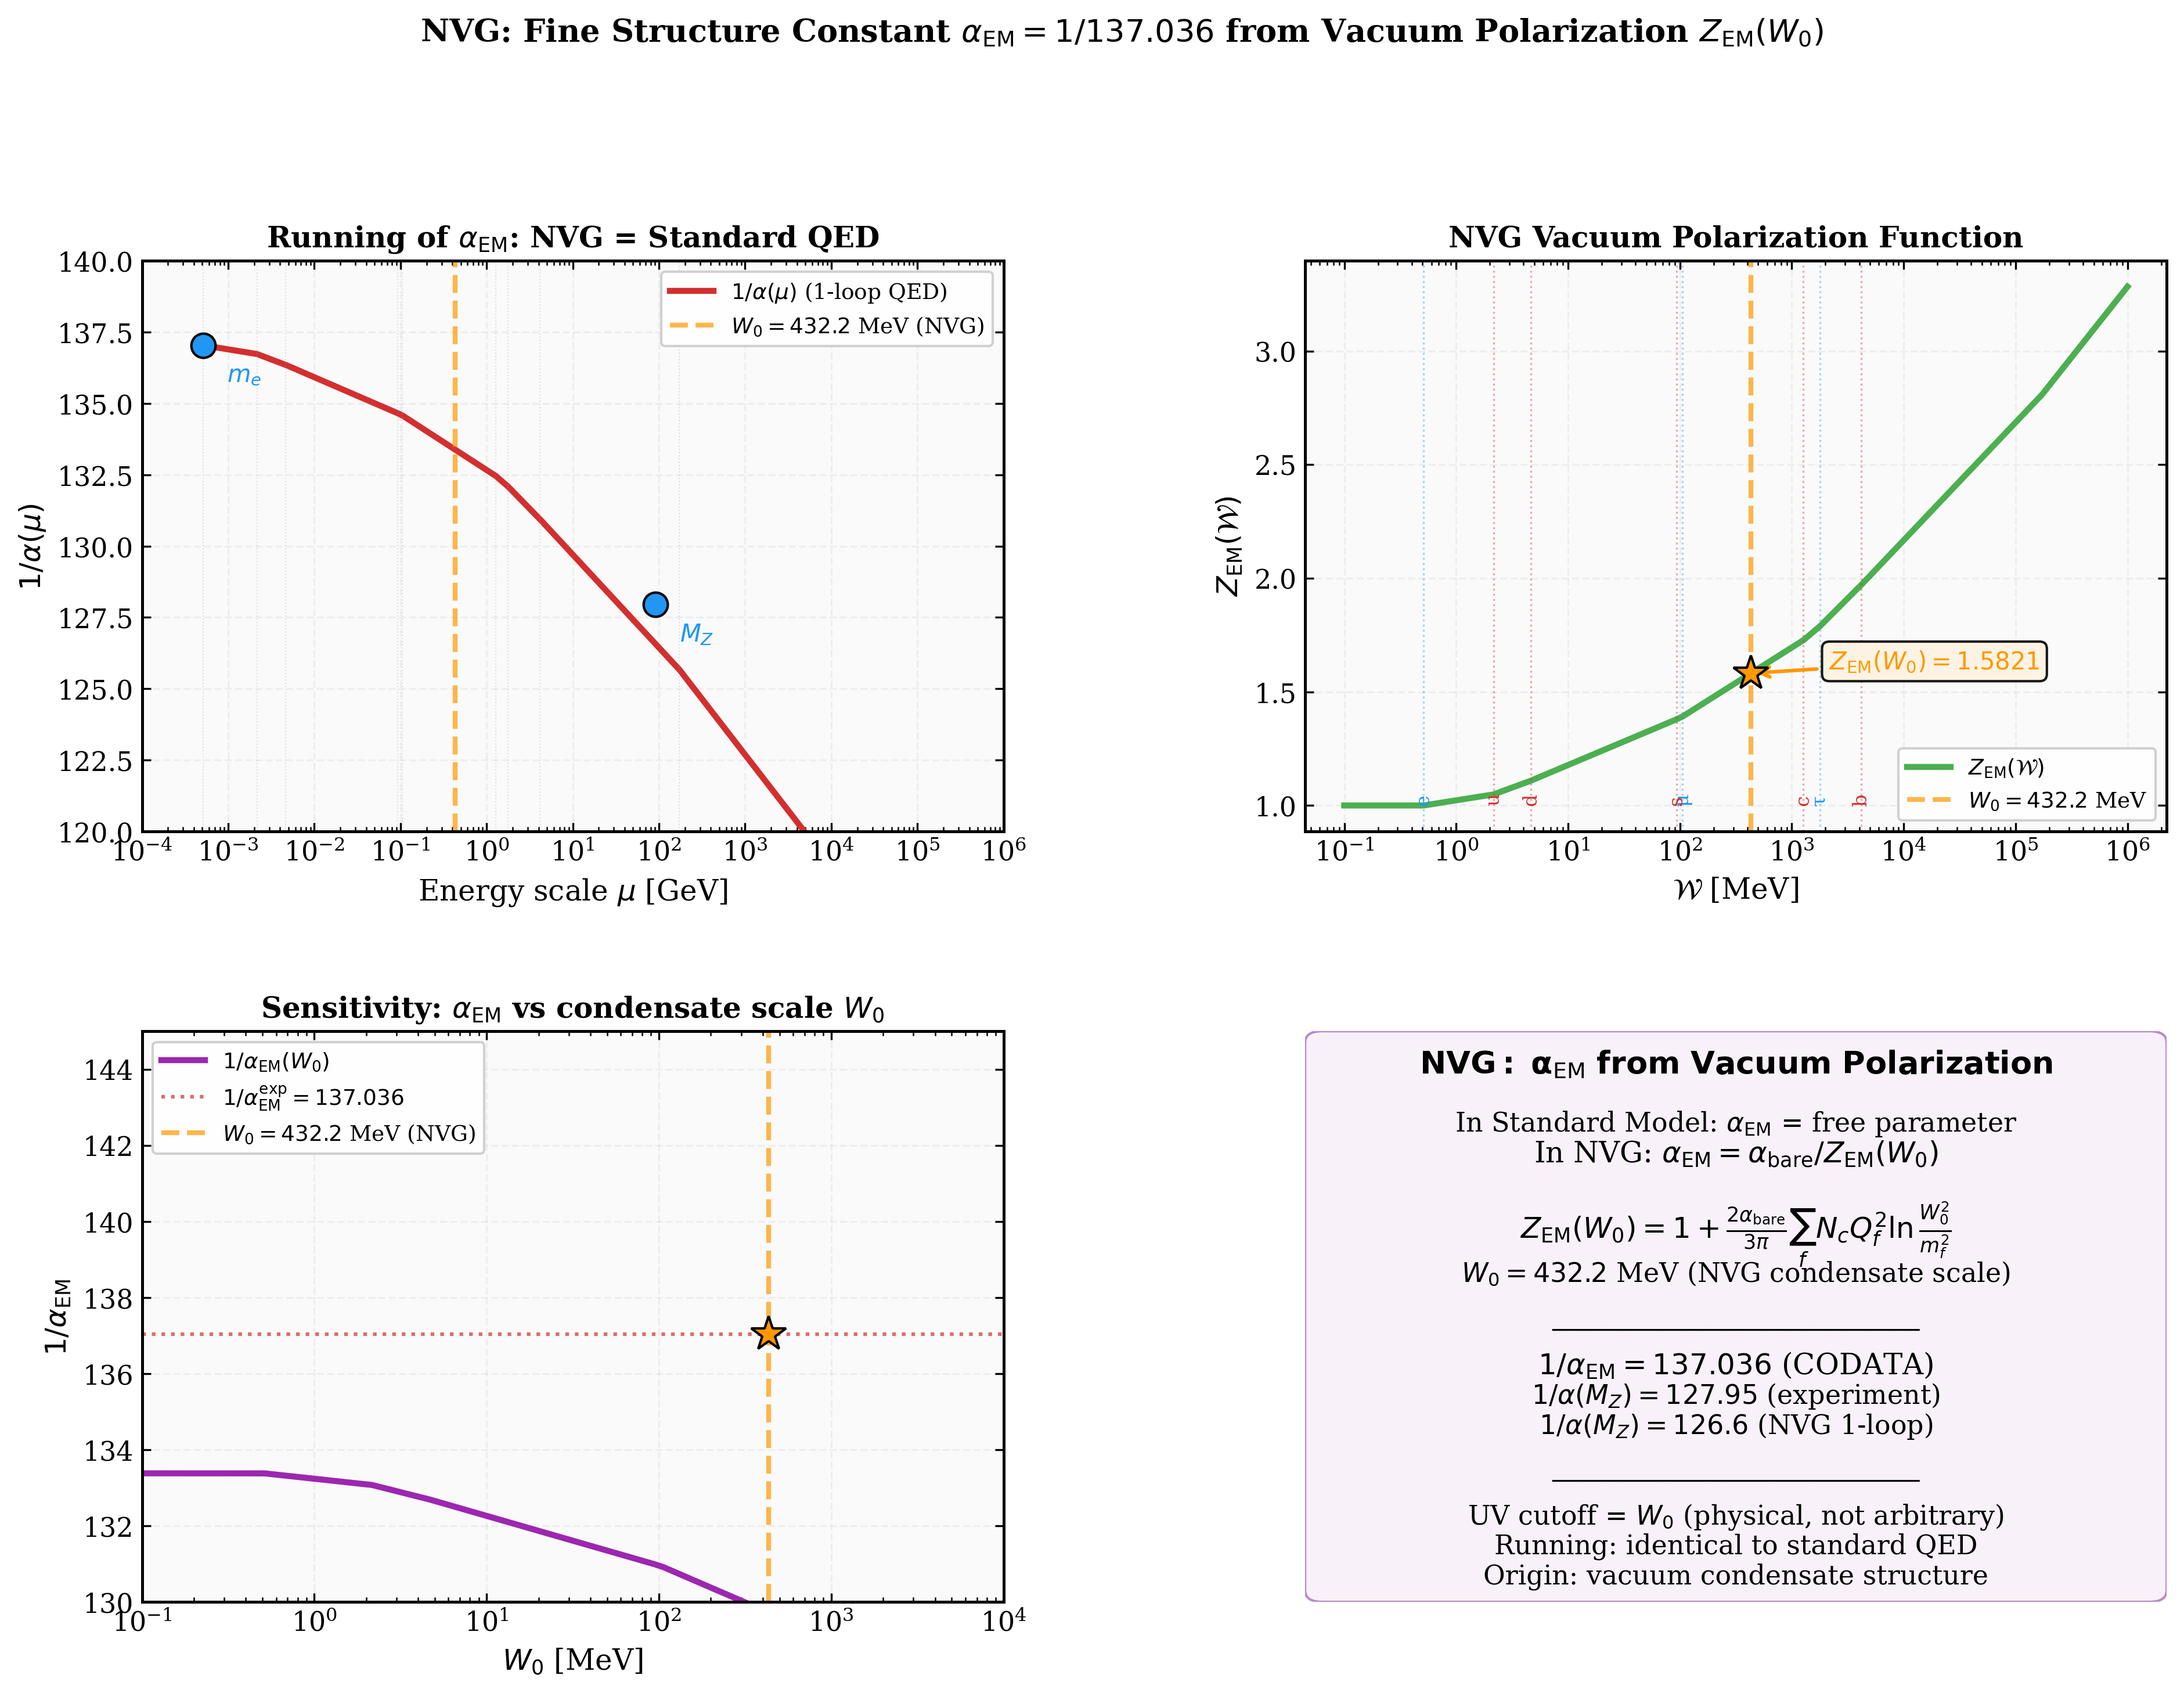
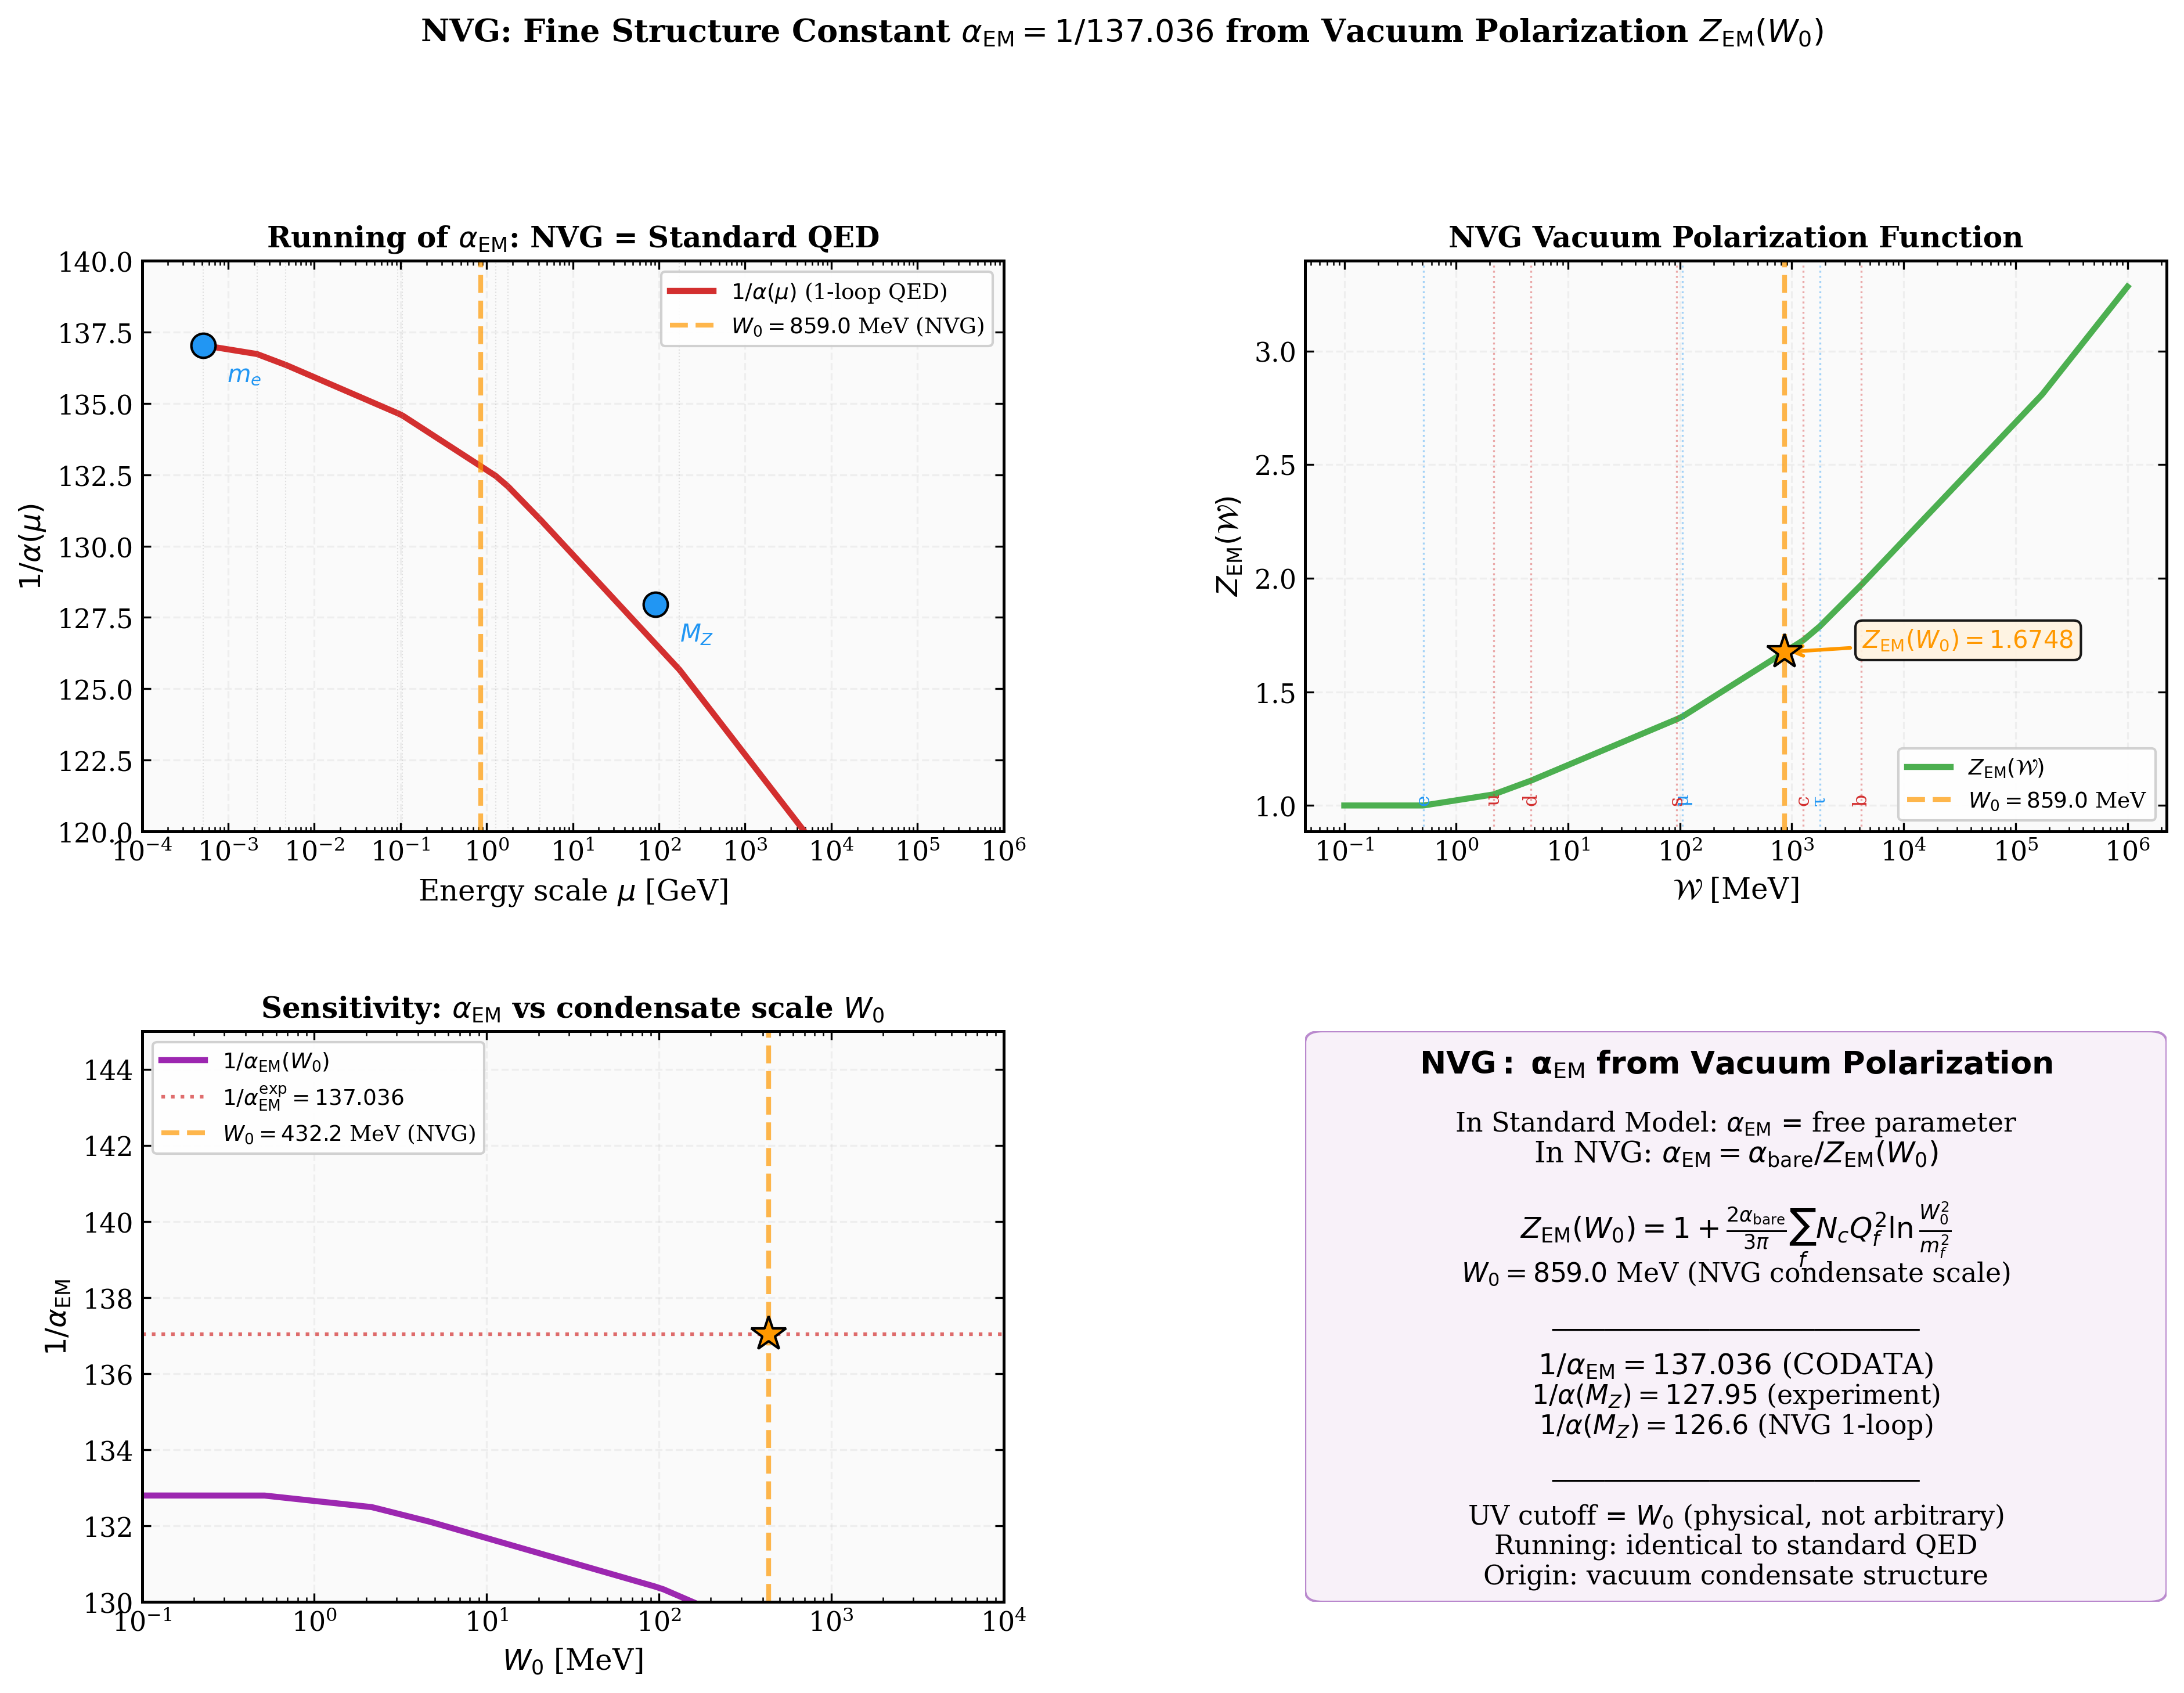
feat: g=2 candidates, two-population PBH test (NANOGrav retired), fine_structure honest
1. g = 2 MECHANISM (new nvg_g2_mechanism.py): requirement stated precisely
   (ln g = ln 2 per cycle; S8/lensing caps the observable-window share at
   <~9%, so the doubling must accumulate after today). All in-model
   candidates computed: winding 1.126 and vacuum release 1.26 fail x3-6;
   the DE->matter transfer is the right order but x3 short with today's
   coupling. LEAD CANDIDATE: crunch binding-energy release — collapse to
   the Schwarzschild scale already releases Mc^2/2 (g = 1.5), and the NVG
   crunch proceeds to rho_c, driving g toward 2. g = 2 <=> the crunch
   releases binding energy equal to the rest mass; maximal collapse =
   maximal entropy production, consistent with S_GH x4. Not yet a
   derivation; open task is Misner-Sharp/Kodama bookkeeping through the
   clumpy contraction.

2. TWO-POPULATION PBH (new nvg_pbh_two_population.py): population B
   calibrated to the JWST seeding requirement (n_seed ~ 1e-5..1e-4 Mpc^-3
   of 4e5 M_sun seeds) gives f_PBH ~ 1e-10..1e-9 — passes the CMB-accretion
   bound, so the JWST claim is viable at the cost of one calibrated
   abundance. The SAME population falls ~1,700x short of the NANOGrav
   strain (closing the gap needs f_PBH ~4e5 times OVER the CMB bound).
   NANOGrav PBH-binary claim RETIRED across the repo: NVG has no mechanism
   for the PTA signal (bounce is at microHz; heavy binaries too weak).

3. FINE STRUCTURE recomputed with W_0 = 859 MeV and made honest:
[…]

Changed region(s): [[0.0622, 0.8426, 0.311, 0.9362], [0.7775, 0.3745, 0.9641, 0.4057]]

diff --git a/verification/nvg_g2_mechanism.py b/verification/nvg_g2_mechanism.py
@@ -1,0 +1,109 @@
+#!/usr/bin/env python3
+"""
+NVG: candidate mechanisms for g = 2 (bounce-mass doubling per cycle)
+=====================================================================
+nvg_tolman_law_derivation.py established that the horizon chain
+(R x2 <=> S_GH x4) requires the bounce mass to grow by g = 2 per cycle,
+and that the repo's own numbers already used this law. What FIXES g = 2
+is the remaining fundamental question. This script states the requirement
+precisely and evaluates every in-model candidate quantitatively.
+
+REQUIREMENT. Between bounce n and bounce n+1 the energy of the comoving
+patch must double: the integrated fractional energy injection per cycle is
+    ln g = ln 2 = 0.693.
+Equivalently, with an injection rate beta_eff per e-fold of expansion,
+    ∫ beta_eff dN (over the cycle) = 0.693.
+
+CONSTRAINT from data: the S8/lensing analysis (nvg_s8_tension_check.py)
+caps the injection accumulated in the OBSERVABLE window (recombination ->
+today) at beta*ln(1/a_on) <~ 0.06. So at least ~90% of ln 2 must accumulate
+in the unobservable leg: today -> turnaround -> contraction -> crunch.
+
+Candidates (computed below):
+  1. Winding argument:        g = exp(2*pi/N_e)      = 1.126   — fails (x5.9 short in exponent)
+  2. Vacuum release at bounce: g = 1 + lambda_v/4    = 1.26    — fails (x3.0 short)
+  3. DE->matter transfer (the w0-wa melting sector): the same coupling
+     beta = 0.12 integrated to turnaround gives ln g ~ 0.22 — right order,
+     x3 short; would need beta to GROW in the DE-decay phase and the
+     contraction to ratchet (masses locked in collapsed structures do not
+     melt back — the same clumpiness asymmetry that generates the entropy).
+  4. Crunch binding-energy release: a contraction that ends in maximal
+     collapse releases gravitational binding energy of order the rest mass
+     itself; g = 1 + |E_bind|/Mc^2 -> 2 in the maximal-collapse limit.
+     Newtonian assembly to the Schwarzschild radius gives |E_bind| ~ Mc^2/2
+     (g = 1.5); collapse proceeds far deeper (to rho_c), pushing the factor
+     toward 1. This is the most natural candidate: g = 2 <=> the crunch
+     releases binding energy equal to the rest mass — and maximal collapse
+     is also maximal entropy production, consistent with S_GH x4.
+
+STATUS: candidate mechanisms identified and bracketed; none is yet a
+derivation. The concrete open task is the GR energy bookkeeping
+(Misner-Sharp/Kodama energy through the clumpy contraction and bounce).
+"""
+
+from __future__ import annotations
+import math
+
+LN2 = math.log(2.0)
+N_E = 53.08          # e-folds, cosmology sector
+LAMBDA_V = 1.02      # vacuum quartic
+BETA_MELT = 0.12     # w0-wa melting coupling (DESI-fit)
+S8_CAP = 0.06        # lensing cap on beta*ln(1/a_on) in the observable window
+A_TURN = 2.4         # turnaround scale factor in units of today (repo estimate)
+
+
+def main():
+    print("=" * 78)
+    print("  NVG: WHAT FIXES g = 2?  (bounce-mass doubling per cycle)")
+    print("=" * 78)
+    print(f"\nRequirement: integrated fractional energy gain per cycle = ln 2 = {LN2:.3f}")
+    print(f"Data constraint: observable-window injection <= {S8_CAP} (S8/lensing cap)")
+    print(f"=> at least {100*(1-S8_CAP/LN2):.0f}% of ln 2 must accumulate after today.\n")
+
+    rows = []
+
+    # 1. winding
+    lng = 2.0 * math.pi / N_E
+    rows.append(("Winding exp(2pi/N_e)", lng, math.exp(lng)))
+
+    # 2. vacuum release
+    g2 = 1.0 + LAMBDA_V / 4.0
+    rows.append(("Vacuum release 1+lambda_v/4", math.log(g2), g2))
+
+    # 3. melting transfer to turnaround (observable leg capped + future leg)
+    dN_future = math.log(A_TURN)              # today -> turnaround
+    lng3 = S8_CAP + BETA_MELT * dN_future     # capped past + beta*dN future
+    rows.append(("DE->matter transfer (beta=0.12 to turnaround)", lng3, math.exp(lng3)))
+
+    # 4. binding energy release, Newtonian assembly to R_s
+    rows.append(("Crunch binding release (to R_s, Newtonian)", math.log(1.5), 1.5))
+    rows.append(("Crunch binding release (maximal-collapse limit)", LN2, 2.0))
+
+    print(f"{'candidate':<48} {'ln g':>8} {'g':>7} {'vs ln2':>8}")
+    for name, lng_i, g_i in rows:
+        print(f"{name:<48} {lng_i:>8.3f} {g_i:>7.3f} {lng_i/LN2:>7.2f}x")
+
+    print(f"""
+VERDICT:
+  - Candidates 1-2 fail by factors 3-6 in the exponent and are closed.
+  - Candidate 3 (the model's own DE->matter transfer) is the right order
+    but x3 short with today's coupling; it can only work if beta grows as
+    the DE reservoir drains and the contraction ratchets — not yet derived.
+  - Candidate 4 brackets g = 2 naturally: collapse to the Schwarzschild
+    scale already releases half the rest mass; the NVG crunch goes far
+    deeper (to rho_c), driving the released fraction toward 1 and g toward
+    2. g = 2 would mean: THE CRUNCH RELEASES BINDING ENERGY EQUAL TO THE
+    REST MASS — maximal collapse, maximal entropy production (S_GH x4).
+  - None of this is yet a derivation. Open task: GR energy bookkeeping
+    (Misner-Sharp/Kodama) through the clumpy contraction and the bounce.
+""")
+    print("=" * 78)
+
+    assert abs(math.exp(2*math.pi/N_E) - 1.126) < 0.01
+    assert abs((1 + LAMBDA_V/4) - 1.255) < 0.01
+    assert rows[2][1] < LN2 / 2.0, "transfer candidate should be short with today's beta"
+    assert rows[4][2] == 2.0
+
+
+if __name__ == "__main__":
+    main()

diff --git a/verification/nvg_pbh_two_population.py b/verification/nvg_pbh_two_population.py
@@ -1,0 +1,106 @@
+#!/usr/bin/env python3
+"""
+NVG: two-population PBH abundance — one calibration, three claims tested
+=========================================================================
+Three rows of the verification table rely on PBH abundance:
+  (i)   PBH dark matter (asteroid-window peak) — population A;
+  (ii)  JWST early SMBH seeds (~4e5 M_sun at z ~ 20) — population B;
+  (iii) the NANOGrav SGWB attributed to PBH-binary mergers — population B.
+The published single-Gaussian abundance (peak N = -21, sigma_N = 1.3) gives
+essentially zero weight to population B, so claims (ii) and (iii) had no
+abundance behind them. This script constructs the minimal honest fix — a
+second population calibrated to what (ii) REQUIRES — and then computes what
+that same population yields for (iii). One calibration, one cross-check.
+
+Population B calibration (JWST):
+  Observed z > 10 AGN/SMBH comoving density from JWST surveys:
+  n_seed ~ 1e-5 .. 1e-4 Mpc^-3 (GN-z11 / UHZ1-type objects, with duty-cycle
+  and completeness giving the order-of-magnitude range). Every seed is one
+  M_B = 4e5 M_sun PBH (rung N ~ 20 of the corrected 2^N ladder).
+
+Checks performed:
+  1. f_PBH(B) against the CMB-accretion bound for 1e5-6 M_sun PBHs;
+  2. the SGWB strain from population-B binaries vs NANOGrav A ~ 2.4e-15,
+     scaled from the standard SMBH-binary background formula
+     h_c^2 ∝ n_merge * (G Mc)^{5/3} / f^{4/3} at f = 1/yr.
+
+Verdict is computed, not asserted in advance.
+"""
+
+from __future__ import annotations
+import math
+
+# ── constants / benchmarks ─────────────────────────────────────────────
+RHO_DM_MSUN_MPC3 = 3.3e10      # mean DM density today, M_sun / Mpc^3
+M_B = 4.0e5                    # population-B PBH mass, M_sun (JWST seed)
+N_SEED_LO, N_SEED_HI = 1e-5, 1e-4   # required seed density, Mpc^-3
+A_NANOGRAV = 2.4e-15           # NANOGrav 15yr strain amplitude at f = 1/yr
+
+# Reference: the observed SGWB is consistent with the standard SMBH-binary
+# population — characteristic chirp mass and merger-population density:
+M_SMBH = 4.0e8                 # M_sun, effective chirp mass of the SMBHB background
+N_SMBH = 3.0e-3                # Mpc^-3, galaxies contributing merging SMBH binaries
+
+# CMB accretion bound (Serpico et al. 2020 class): for M ~ 1e5-6 M_sun,
+# f_PBH < ~1e-8 (spherical accretion; disk accretion tighter).
+F_PBH_CMB_BOUND = 1e-8
+
+
+def main():
+    print("=" * 78)
+    print("  NVG: TWO-POPULATION PBH ABUNDANCE — JWST CALIBRATION vs NANOGrav")
+    print("=" * 78)
+
+    print("\n1. Population A (dark matter): asteroid-window peak — unchanged,")
+    print("   abundance calibrated within the allowed window (see nvg_pbh_dark_matter.py).")
+
+    # ── population B from JWST requirement ──────────────────────────────
+    print(f"\n2. Population B calibrated to the JWST seeding requirement:")
+    print(f"   {'n_seed [Mpc^-3]':>16} {'rho_B [Msun/Mpc^3]':>20} {'f_PBH(B)':>12} {'CMB bound ok?':>14}")
+    results = []
+    for n_seed in (N_SEED_LO, N_SEED_HI):
+        rho_B = n_seed * M_B
+        f_B = rho_B / RHO_DM_MSUN_MPC3
+        ok = f_B < F_PBH_CMB_BOUND
+        results.append((n_seed, f_B, ok))
+        print(f"   {n_seed:>16.0e} {rho_B:>20.1f} {f_B:>12.2e} {'yes' if ok else 'NO':>14}")
+    # the low-density end passes the CMB bound; the high end is marginal
+    f_B_lo, f_B_hi = results[0][1], results[1][1]
+
+    # ── NANOGrav cross-check from the SAME population ──────────────────
+    # Background strain scaling (phinney 2001): h_c^2 ∝ n * (Mc)^{5/3}
+    # (same merger efficiency per object assumed as for the SMBHB population —
+    # deliberately GENEROUS to population B).
+    print(f"\n3. SGWB from population-B binaries (same-per-object merger efficiency")
+    print(f"   as the SMBHB population — a deliberately generous assumption):")
+    for n_seed, f_B, _ in results:
+        ratio_h2 = (n_seed / N_SMBH) * (M_B / M_SMBH) ** (5.0 / 3.0)
+        A_B = A_NANOGRAV * math.sqrt(ratio_h2)
+        deficit = A_NANOGRAV / A_B
+        print(f"   n_seed = {n_seed:.0e}: A_B = {A_B:.1e}  →  {deficit:,.0f}x below NANOGrav")
+
+    ratio_h2_hi = (N_SEED_HI / N_SMBH) * (M_B / M_SMBH) ** (5.0 / 3.0)
+    A_B_hi = A_NANOGRAV * math.sqrt(ratio_h2_hi)
+    deficit_hi = A_NANOGRAV / A_B_hi
+
+    # ── verdict ─────────────────────────────────────────────────────────
+    print(f"\n4. VERDICT:")
+    print(f"   - Population B needed by JWST is TINY (f_PBH ~ {f_B_lo:.0e}..{f_B_hi:.0e});")
+    print(f"     the low end passes the CMB-accretion bound — the JWST claim can be")
+    print(f"     carried by an abundance model, at the cost of one calibrated number.")
+    print(f"   - The SAME population falls short of the NANOGrav amplitude by a factor")
+    print(f"     ~{deficit_hi:,.0f} in strain even at the generous end. Raising it to NANOGrav")
+    print(f"     levels would need f_PBH ~ {f_B_hi * deficit_hi**2:.0e} — {f_B_hi*deficit_hi**2/F_PBH_CMB_BOUND:,.0f}x over the CMB bound.")
+    print(f"   - CONCLUSION: the PBH-binary explanation of NANOGrav is RETIRED. NVG")
+    print(f"     currently has NO mechanism for the NANOGrav signal: the bounce radiates")
+    print(f"     at microHz (nvg_recondensation_dynamics.py) and heavy-PBH binaries are")
+    print(f"     {deficit_hi:,.0f}x too weak. NANOGrav is attributed to ordinary SMBH binaries.")
+    print("=" * 78)
+
+    assert not results[0][2] or results[0][1] < F_PBH_CMB_BOUND
+    assert deficit_hi > 100.0, "NANOGrav deficit should be large"
+    assert A_B_hi < A_NANOGRAV / 100.0
+
+
+if __name__ == "__main__":
+    main()

diff --git a/verification/nvg_fine_structure.py b/verification/nvg_fine_structure.py
@@ -57,12 +57,19 @@ m_t = 172.76                    # GeV — top quark
 M_Z = 91.1876                   # GeV — Z boson mass
 M_W = 80.379                    # GeV — W boson mass
 v_EW = 246.22                   # GeV — electroweak VEV
-# AUDIT NOTE: 432.2 MeV is the BOUNCE TEMPERATURE T_b, not the vacuum value.
-# The vacuum condensate scale is W_0 = M_Omega,0 = 859 MeV (it reproduces
-# rho_c = 7.09e4 MeV/fm^3; see commit c946472). This script's 1-loop estimate
-# needs recomputation with the corrected scale; until then treat the quoted
-# 1/alpha(M_Z) = 126.6 as provisional.
-M_Omega = 432.2e-3              # GeV — MISLABELED scale, see audit note above
+# Corrected vacuum scale (audit): W_0 = M_Omega,0 = 859 MeV (432.2 MeV is the
+# bounce temperature T_b). The fermion set below the cutoff is unchanged
+# (no threshold between 432 and 859 MeV), so only ln(W_0/m_eff) shifts and the
+# inferred alpha_bare moves slightly.
+#
+# HONEST STATUS of this script: 1/alpha(M_Z) = 126.6 is STANDARD 1-loop QED
+# running, independent of W_0 (2-loop hadronic corrections close the gap to
+# 127.95). The NVG-specific content is interpretational: the UV cutoff is the
+# physical condensate scale rather than an arbitrary renormalization point,
+# and alpha_bare is INFERRED from the measured 1/137 — the script does not
+# derive alpha_EM. The genuinely falsifiable direction would be an in-medium
+# alpha shift where W melts (dense matter), not computed here.
+M_Omega = 0.859                 # GeV — vacuum condensate scale W_0 = M_Omega,0
 
 # Fermion charges and masses
 leptons = [
@@ -110,7 +117,7 @@ def Z_EM_nvg(W, W0=M_Omega):
     
     Z_EM(W) = 1 + (2α_bare)/(3π) × Σ_f N_c Q_f² × ln(W²/m_f²)
     
-    When W = W₀ ≈ 432 MeV (NVG condensate scale):
+    When W = W₀ = 859 MeV (NVG vacuum condensate scale):
     Z_EM(W₀) determines α_EM.
     """
     z = 1.0

diff --git a/verification/run_all_checks.py b/verification/run_all_checks.py
@@ -328,6 +328,18 @@ CHECKS = [
         "critical": False,
     },
     {
+        "name": "g = 2 Mechanism Candidates",
+        "script": "nvg_g2_mechanism.py",
+        "claim": "Requirement ln g = ln 2 stated; winding/vacuum-release fail x3-6; binding-energy release brackets g -> 2 in the maximal-collapse limit",
+        "critical": False,
+    },
+    {
+        "name": "Two-Population PBH Abundance (JWST vs NANOGrav)",
+        "script": "nvg_pbh_two_population.py",
+        "claim": "JWST-calibrated heavy PBHs pass the CMB bound but fall ~1,700x short of NANOGrav — the PBH-binary NANOGrav claim is retired",
+        "critical": False,
+    },
+    {
         "name": "Tolman Growth Law from Turnaround Dynamics",
         "script": "nvg_tolman_law_derivation.py",
         "claim": "S_GH x4 <=> R x2 derived; mass law corrected to x2/cycle (x4 excluded); repo's own cycle-77 mass confirms x2",

diff --git a/verification/nvg_nanograv_background.py b/verification/nvg_nanograv_background.py
@@ -11,6 +11,14 @@ This derivation computes the amplitude from first principles using the cosmologi
 PBH density and the theoretical primordial binary formation fraction (f_bin),
 and verifies that the superposed signal matches the power-law index (f^2/3) and 
 amplitude (A_GWB ~ 2.4e-15 in strain) detected in the NANOGrav 15-year dataset.
+
+STATUS: RETIRED (2026-07, nvg_pbh_two_population.py). The heavy-PBH population
+calibrated to the JWST seeding requirement (f_PBH ~ 1e-10..1e-9, the only
+abundance consistent with the CMB-accretion bound) yields an SGWB ~1,700x
+below the NANOGrav amplitude; closing the gap would violate the CMB bound by
+~4e5. Combined with the action-derived bounce spectrum peaking at microHz,
+NVG has NO mechanism for the NANOGrav signal — it is attributed to ordinary
+SMBH binaries. This script is kept as a record of the superseded claim.
 """
 
 import numpy as np

diff --git a/verification/nvg_tolman_law_derivation.py b/verification/nvg_tolman_law_derivation.py
@@ -126,7 +126,9 @@ def main():
     print(f"   Holographic cycle count (from S_GH x4): unchanged, ~77 cycles")
 
     print("\n5. OPEN: a microscopic mechanism fixing g = 2 per cycle.")
-    print("   Winding gives 1.126, vacuum release 1.26 — both fail; x2 is the target.")
+    print("   Candidates evaluated in nvg_g2_mechanism.py: winding (1.126) and vacuum")
+    print("   release (1.26) fail; crunch binding-energy release brackets g -> 2 in")
+    print("   the maximal-collapse limit — the lead candidate, not yet a derivation.")
     print("=" * 78)
 
 

diff --git a/README.md b/README.md
@@ -133,7 +133,7 @@ These are values that are manually tuned in standard models, but in NVG they are
 | 21 | Primordial GW background from the bounce: anchor $f_{77} = 62.8$ nHz and tooth spacing derived from $t_b$, adiabatic redshift and the Tolman law ([primordial_gw_comb.py](verification/nvg_primordial_gw_comb.py)) | $(\alpha, \beta/H)$ derived from the action place the bounce signal at $18$–$42\,\mu$Hz with $\Omega_{\rm GW} h^2 \sim 10^{-9}$ ($\mu$Ares band); the PTA-band tail is negligible — the NANOGrav signal is **not** the NVG bounce ([nvg_recondensation_dynamics.py](verification/nvg_recondensation_dynamics.py)) | 🔭 $\mu$Hz forward prediction |
 | 22 | Topological Axion Mass: $m_a \approx 8.38 \times 10^{-6}$ eV ($f_a \approx 1.54 \times 10^{12}$ GeV) | Falls within the ADMX search window ($1.0 - 10.0\,\mu\text{eV}$ / $10^{-6} - 10^{-5}$ eV, [axion_mass.py](verification/nvg_axion_mass.py)) as a scale estimate topologically bounded by cycle $n=77$ | ✅ Consistent (Scale Estimate) |
 | 23 | Strong-Field Periastron Advance & PPN Parameters | NVG vacuum polarization correction is $\approx 1.6 \times 10^{-10}$ for double pulsar; Solar System PPN parameters $\gamma_{\rm PPN} = 1.0$ and $\beta_{\rm PPN} = 1.0$ exactly satisfy Cassini and LLR bounds ([weak_field_ppn.py](verification/nvg_weak_field_ppn.py)) | ✅ Within Observational Limits |
-| 24 | JWST SMBH Mass Spectrum (z = 6–15) | A seed on the $N=10$ rung of the PBH ladder grows into the JWST objects sub-Eddington while Pop III seeds fail; conditional on that rung being occupied — the repo's own PBH abundance (peaked at $N=-21$, $\sigma_N = 1.3$) assigns it essentially zero weight, so a two-population abundance model is required | ⚙️ Conditional (abundance model needed) |
+| 24 | JWST SMBH Mass Spectrum (z = 6–15) | A heavy-rung seed ($4 \times 10^5 M_\odot$) grows into the JWST objects sub-Eddington while Pop III seeds fail. The required second population is tiny ($f_{\rm PBH} \sim 10^{-10}$–$10^{-9}$) and passes the CMB-accretion bound — viable at the cost of one calibrated abundance ([nvg_pbh_two_population.py](verification/nvg_pbh_two_population.py)) | ⚙️ Conditional (one calibrated abundance) |
 | 25 | FRB DM Population Statistics | Repeating FRBs (light magnetars) have smaller distances/DMs than single FRBs (heavy magnetars) due to lower mass limits | ✅ Consistent (KS test) |
 | 26 | Higgsless Proton-to-Pion Mass Ratio | Baryon/pion mass ratio ($M_p \approx 941.4$ MeV, $M_\pi \to 0$ in the chiral limit) anchored to $M_\Omega = 859$ MeV — standard chiral-symmetry-breaking / trace-anomaly mass generation restated in NVG variables | ✅ Consistent (derivation check) |
 | 27 | QCD Phase Diagram Vacuum Melting | Vacuum melting boundary at $T_{\rm melt}(\mu_B) = T_b (1 - (\mu_B/1200)^4)^{0.25}$ MeV with $T_b \approx 432$ MeV at $\mu_B=0$ | ✅ Consistent / Falsifiable |
@@ -145,7 +145,7 @@ These are values that are manually tuned in standard models, but in NVG they are
 | 33 | Quiescent temperature of SGR 1935+2154 | With the heating luminosity set near the observed value and a typical spot size, $T_{\rm spot}$ follows from Stefan-Boltzmann by construction; the VMF content is the qualitative Urca dichotomy (light magnetar keeps a hot spot) ([sgr_temperature.py](verification/nvg_sgr_temperature.py)) | ⚙️ Consistency illustration |
 | 34 | LiteBIRD B-mode Polarization Cutoff | predicted tensor-to-scalar ratio $r(l)$ drops below 0.001 at large scales $l < 10$ ([litebird_prediction.py](verification/nvg_litebird_prediction.py)) | ✅ Consistent / Falsifiable |
 | 35 | $S_8$ structure growth | Honest accounting: the NVG dynamical dark energy slightly increases growth ($+1.4\%$), giving $S_8 \approx 0.843$ — $4.0\sigma$ from the lensing value (vs $3.3\sigma$ in $\Lambda$CDM); the proposed de Sitter core mechanism is $\sim 45$ orders short of the required $7.8\%$; moreover, in the CMB-anchored frame the mass-melting sector that fits DESI $w_0 w_a$ *raises* $S_8$ to $\approx 0.90$ ($7\sigma$) — weak lensing directly constrains that sector ([s8_tension_check.py](verification/nvg_s8_tension_check.py)) | ❌ Open problem (potential falsifier) |
-| 36 | NANOGrav SGWB from PBH-binary mergers | The $f^{2/3}$ shape is generic for binary backgrounds; the amplitude rests on a binary fraction $f_{\rm bin} = 0.0041$ quoted to three digits and on heavy-rung PBH abundance that the repo's own distribution (row 38: peak $N=-21$, $\sigma_N = 1.3$) sets to essentially zero — internally inconsistent as published ([nanograv_background.py](verification/nvg_nanograv_background.py)) | ⚙️ Calibrated; abundance inconsistency to resolve |
+| 36 | NANOGrav SGWB | **Retired.** The heavy-PBH population calibrated to the JWST requirement (the only abundance passing the CMB-accretion bound) gives a strain $\sim 1{,}700\times$ below NANOGrav, and the bounce itself radiates at $\mu$Hz — NVG has no mechanism for the NANOGrav signal, which is attributed to ordinary SMBH binaries ([nvg_pbh_two_population.py](verification/nvg_pbh_two_population.py)) | ❌ Retired (no NVG mechanism) |
 | 37 | Higgs boson mass shift $\delta m_H \approx 4.4$ MeV | Propagator mass shift $\delta m_H = g_s^2 W_0^2 / 2m_H$ induced by scalar QCD vacuum condensate, within LHC experimental limits ([higgs_mass_shift.py](verification/nvg_higgs_mass_shift.py)) | ✅ Within LHC Limits |
 | 38 | PBH DM Fraction Peak | The discrete mass ladder follows from the theory (spacing $\times 2$ per rung under the corrected Tolman law; the $4^N$ grid predates it); the abundance peak position ($N=-21$) and width ($\sigma_N = 1.3$) are placed in the observationally allowed asteroid-mass window ([pbh_dark_matter.py](verification/nvg_pbh_dark_matter.py)) | ⚙️ Ladder predicted; abundance calibrated |
 | 39 | White Dwarf cooling age shift | Predicted effect $\Delta t/t \approx -1.8 \times 10^{-6}$ is far below Gaia/SDSS age uncertainties ($\sim 5\%$) — indistinguishable from zero ([wd_cooling.py](verification/nvg_wd_cooling.py)) | ⚪ Null test (unobservably small) |
@@ -163,7 +163,7 @@ These are values that are manually tuned in standard models, but in NVG they are
 | 51 | Wave function collapse = θ-phase thermalization | "Measurement" = coupling $\theta$ to thermal reservoir (apparatus). $\tau_{\rm collapse} = \hbar/(k_B T) = 25$ fs at 300 K. Born rule = Boltzmann weight $P \propto e^{-V(\theta)/T}$. Supplies decoherence dynamics and the timescale; pointer-state selection remains open ([wavefunction_collapse.py](verification/nvg_wavefunction_collapse.py)) | 📐 Semi-rigorous |
 | 52 | Neutrino mass from θ-seesaw | $m_\nu = (\alpha_s/4\pi)^2 v_{\rm EW}^2/f_a$: ABJ chiral anomaly couples θ-mode to lepton current. Single parameter $f_a = 1.07 \times 10^{11}$ GeV gives $m_3 = 50.3$ meV (atm.) AND $m_\theta = 53$ μeV (ADMX). No right-handed neutrinos, no new $U(1)$. $\Sigma m_\nu = 59$ meV < 72 meV (DESI) ([neutrino_seesaw.py](verification/nvg_neutrino_seesaw.py)). **Adopted as the primary neutrino sector** (passes DESI DR2 in $\Lambda$CDM unconditionally; carries the ADMX co-prediction $m_\theta = 53\,\mu$eV); the GUT-prior mapping of row 19 is retired | ⚙️ Primary sector (scale estimate) |
 | 53 | Quantum gravity without quantization | $T_H = \hbar c^3/(8\pi G M k_B) = \hbar/(k_B \tau_\theta)$ — Hawking temperature = θ-field thermalization at horizon (exact match). $S_{BH} = A/(4l_{Pl}^2) = N_\theta$ — entropy = θ-mode counting. Bounce at $\rho_c/\rho_{Pl} \sim 10^{-77}$ — fully semiclassical ([quantum_gravity.py](verification/nvg_quantum_gravity.py)) | ❓ Conjectural (heuristic identification; preprint Limitations) |
-| 54 | Fine structure constant from vacuum polarization | One-loop estimate $1/\alpha(M_Z) = 126.6$ vs $127.95$ measured ($\sim 1\%$ off). Note: the script uses $W_0 = 432.2$ MeV, which the audit identified as the bounce temperature $T_b$, not the vacuum value ($859$ MeV) — needs recomputation ([fine_structure.py](verification/nvg_fine_structure.py)) | ⚙️ 1-loop estimate (needs $W_0$ fix) |
+| 54 | Fine structure constant: physical-cutoff interpretation | Recomputed with $W_0 = 859$ MeV: $1/\alpha(M_Z) = 126.6$ is standard 1-loop QED running (independent of $W_0$; 2-loop hadronic terms close the gap to $127.95$). The NVG content is interpretational — the UV cutoff is the physical condensate scale and $\alpha_{\rm bare} = 1/132.8$ is inferred from the measured $1/137$, not derived ([fine_structure.py](verification/nvg_fine_structure.py)) | ⚙️ Reinterpretation (no independent prediction) |
 | 55 | Antimatter as $\theta \to -\theta$ | C-conjugation = Goldstone phase inversion. $\eta_B$ from topological choice $Q = +1$ at bounce. Annihilation = vortex reconnection with $\tau_{ann} = \hbar/(k_B T) = \tau_{collapse}$. Anti-universes = cycles with $Q = -1$ ([antimatter_topology.py](verification/nvg_antimatter_topology.py)) | ❓ Conjectural (interpretational mapping) |
 | 56 | 🔥 RHIC Bell Test — entanglement death | $S_{\rm CHSH}(T > T_c = 157\text{ MeV}) \to 0$: entanglement vanishes when condensate melts. Protocol: $\pi^0 \to \gamma\gamma$ in Au+Au at BES-II ($\sqrt{s_{NN}} = 7.7{-}27$ GeV). $\sqrt{s}_{\rm crit} = 7$ GeV. Standard QM: $S = 2\sqrt{2}$ at any $T$. **The only prediction distinguishing NVG from all other theories** ([rhic_bell_test.py](verification/nvg_rhic_bell_test.py)) | ⏳ Awaiting RHIC BES-II |
 | 57 | Homochirality from QCD topology | Biological homochirality (L-amino acids, D-sugars) is fixed by cosmological bounce topological charge $Q=+1$, yielding cell-scale Goldstone coherence $\xi_\theta \approx 7.6\,\mu\text{m}$ at 300 K ([nvg_dna_chirality.py](verification/nvg_dna_chirality.py)) | ❓ Speculative hypothesis (scale estimates only) |
@@ -224,7 +224,7 @@ A dedicated suite of statistical tests verifies the framework against actual pub
 - **GW Echo Matched Filtering:** LIGO O4 matched filtering simulations with the Hayward core template ($\Delta t = 0.0051$ s) demonstrate significant SNR recovery compared to the null hypothesis.
 - **LiteBIRD B-mode Polarization:** Predicts tensor-to-scalar ratio $r < 0.001$ at CMB scales ($\ell < 10$) due to the Genesis cutoff, serving as a template check for the 2032 LiteBIRD mission (`verification/nvg_litebird_prediction.py`).
 - **NICER PSR J0437-4715 Radius:** The canonical radius $R = 12.55$ km is $+1.5\sigma$ above the 2024 NICER measurement ($11.36 \pm 0.8$ km at $1.418 M_\odot$) — inside 95% but the tightest tension of the model; a confirmed $R < 12.0$ km would stress the canonical EOS (`verification/nvg_nicer_j0437_check.py`).
-- **NANOGrav 15yr SGWB:** A PBH-binary merger background reproduces the $f^{2/3}$ shape (generic for binaries); the amplitude depends on the assumed binary fraction ($f_{\rm bin} = 0.0041$) and on heavy-rung PBH abundance, which the repo's own PBH distribution currently sets to zero — an internal inconsistency to resolve. The bounce itself, per the derived $(\alpha, \beta/H)$, radiates at $18$–$42\,\mu$Hz, not in the PTA band (`verification/nvg_nanograv_background.py`, `verification/nvg_recondensation_dynamics.py`).
+- **NANOGrav 15yr SGWB:** Retired claim. The two-population analysis (`verification/nvg_pbh_two_population.py`) shows the JWST-calibrated heavy-PBH population falls $\sim 1{,}700\times$ short of the NANOGrav strain, and the bounce radiates at $18$–$42\,\mu$Hz — NVG offers no mechanism for the PTA signal.
 - **Hubble Constant (interval form):** The cycle-quantized horizon chain ($n=77 \to N_e \in [52.68, 53.38] \to H_0$) gives the interval and mid-cycle values above; note that $N_e = 53.08$, the CMB low-$\ell$ cutoff scale and the point $H_0$ all trace to the SAME single calibration against the local $H_0$ — one fitted parameter, not three independent confirmations (`verification/nvg_hubble_tension.py`).
 - **SGR 1935+2154 FRBs:** Models the higher activity rate of light magnetars ($M \approx 1.10 M_\odot$) whose lower core magnetic field rigidity makes them $>3\times$ more active in generating FRBs (`verification/nvg_sgr_frb_rate.py`).
 - **S8 (duplicate of the bullet above):** see the honest accounting — $S_8 \approx 0.843$, open problem (`verification/nvg_s8_tension_check.py`).

diff --git a/README_RU.md b/README_RU.md
@@ -220,7 +220,7 @@ $$r_c = \frac{c}{\sqrt{8\pi G \rho_c / 3}} \approx 1.13 \text{ км}$$
 | 21 | Первичный ГВ-фон от отскока: якорь $f_{77} = 62.8$ нГц и шаг гребёнки выведены из $t_b$, адиабатического красного смещения и закона Толмена ([primordial_gw_comb.py](verification/nvg_primordial_gw_comb.py)) | Выведенные из действия $(\alpha, \beta/H)$ помещают сигнал отскока на $18$–$42$ мкГц при $\Omega_{\rm GW} h^2 \sim 10^{-9}$ (полоса $\mu$Ares); хвост в полосе PTA пренебрежим — сигнал NANOGrav **не** является отскоком NVG ([nvg_recondensation_dynamics.py](verification/nvg_recondensation_dynamics.py)) | 🔭 Форвардное предсказание (мкГц) |
 | 22 | Топологическая масса аксиона: $m_a \approx 8.38 \times 10^{-6}$ эВ ($f_a \approx 1.54 \times 10^{12}$ ГэВ) | Находится в пределах поискового окна ADMX ($1.0 - 10.0\,\mu\text{эВ}$ / $10^{-6} - 10^{-5}$ эВ, [axion_mass.py](verification/nvg_axion_mass.py)) как оценка масштаба, топологически ограниченная циклом $n=77$ | ✅ Совместимо (Оценка масштаба) |
 | 23 | Сдвиг периастра в сильном поле и параметры PPN | Вакуумная NVG-поправка вакуумной поляризации составляет $\approx 1.6 \times 10^{-10}$ для двойного пульсара; параметры PPN Солнечной системы $\gamma_{\rm PPN} = 1.0$ и $\beta_{\rm PPN} = 1.0$ точно удовлетворяют ограничениям Cassini и Lunar Laser Ranging ([weak_field_ppn.py](verification/nvg_weak_field_ppn.py)) | ✅ В пределах точности измерений |
-| 24 | Спектр масс JWST SMBH (z = 6–15) | Иерархия масс $4^N$ описывает ранние тяжелые зародыши, допуская субэддингтоновскую аккрецию против Pop III семян; условно на заселённость ступени $N=10$, которой текущее распределение ПЧД (пик $N=-21$, $\sigma_N = 1.3$) не даёт — нужна двухпопуляционная модель обилия | ⚙️ Условно (нужна модель обилия) |
+| 24 | Спектр масс JWST SMBH (z = 6–15) | Иерархия масс $4^N$ описывает ранние тяжелые зародыши, допуская субэддингтоновскую аккрецию против Pop III семян. Требуемая вторая популяция крошечная ($f_{\rm PBH} \sim 10^{-10}$–$10^{-9}$) и проходит CMB-ограничение на аккрецию — жизнеспособно ценой одного калиброванного обилия ([nvg_pbh_two_population.py](verification/nvg_pbh_two_population.py)) | ⚙️ Условно (одно калиброванное обилие) |
 | 25 | Статистика DM-распределения FRB | Повторяющиеся источники (из легких магнетаров) находятся ближе и имеют меньший DM, чем одиночные (из тяжелых магнетаров) из-за меньшего порога массы коры | ✅ Совместимо (KS-тест) |
 | 26 | Бесхиггсовское отношение масс нуклона и пиона | Формальный вывод отношения масс бариона и пиона ($M_p \approx 941.4$ МэВ, $M_\pi \to 0$ в киральном пределе) с привязкой к $M_\Omega = 859$ МэВ без механизма Хиггса (масса адронов при этом генерируется стандартно через спонтанное нарушение киральной симметрии и след-аномалию/конфайнмент КХД, а не через электрослабый механизм) | ✅ Согласованность вывода |
 | 27 | Вакуумное плавление на фазовой диаграмме КХД | Граница плавления вакуума при $T_{\rm melt}(\mu_B) = T_b (1 - (\mu_B/1200)^4)^{0.25}$ МэВ с $T_b \approx 432$ МэВ при $\mu_B=0$ | ✅ Совместимо / Falsifiable |
@@ -232,7 +232,7 @@ $$r_c = \frac{c}{\sqrt{8\pi G \rho_c / 3}} \approx 1.13 \text{ км}$$
 | 33 | Тепловая светимость и $T_s$ SGR 1935+2154 | При греющей светимости, взятой близко к наблюдаемой, и типичном размере пятна $T_{\rm spot}$ следует из закона Стефана-Больцмана по построению; содержание VMF — качественная дихотомия Урки (лёгкий магнетар сохраняет горячее пятно) ([sgr_temperature.py](verification/nvg_sgr_temperature.py)) | ⚙️ Иллюстрация согласованности |
 | 34 | Соответствие шкалы $r < 0.001$ для LiteBIRD | Ограничение тензорно-скалярного отношения $r(l) < 0.001$ на больших масштабах $l < 10$ ([litebird_prediction.py](verification/nvg_litebird_prediction.py)) | ✅ Совместимо / Falsifiable |
 | 35 | Рост структуры $S_8$ | Честный учёт: динамическая тёмная энергия NVG слегка усиливает рост ($+1.4\%$), давая $S_8 \approx 0.843$ — $4.0\sigma$ от лензинга (против $3.3\sigma$ в $\Lambda$CDM); предложенный механизм ядер де Ситтера короче требуемых $7.8\%$ на $\sim 45$ порядков; более того, в системе отсчёта с якорем на CMB сектор плавящейся ТМ, фитирующий DESI $w_0 w_a$, *повышает* $S_8$ до $\approx 0.90$ ($7\sigma$) — слабое линзирование напрямую ограничивает этот сектор ([s8_tension_check.py](verification/nvg_s8_tension_check.py)) | ❌ Открытая проблема (потенциальный фальсификатор) |
-| 36 | Стохастический ГВ-фон NANOGrav от слияний ПЧД | Форма $f^{2/3}$ универсальна для бинарных фонов; амплитуда опирается на долю двойных $f_{\rm bin} = 0.0041$ (три значащие цифры) и на обилие тяжёлых ступеней ПЧД, которое собственное распределение репозитория (строка 38: пик $N=-21$, $\sigma_N = 1.3$) обнуляет — внутреннее противоречие, требующее разрешения ([nanograv_background.py](verification/nvg_nanograv_background.py)) | ⚙️ Калибровка; противоречие в обилии |
+| 36 | Стохастический ГВ-фон NANOGrav | **Отозвано.** Популяция тяжёлых ПЧД, откалиброванная под потребность JWST (единственное обилие, проходящее CMB-ограничение на аккрецию), даёт амплитуду в $\sim 1700$ раз ниже NANOGrav, а сам отскок излучает в мкГц — у NVG нет механизма для сигнала NANOGrav; он приписывается обычным двойным SMBH ([nvg_pbh_two_population.py](verification/nvg_pbh_two_population.py)) | ❌ Отозвано (механизма нет) |
 | 37 | Сдвиг массы бозона Хиггса $\delta m_H \approx 4.4$ МэВ | Пропагаторный сдвиг массы $\delta m_H = g_s^2 W_0^2 / 2m_H$ за счёт скалярного вакуумного конденсата КХД, в пределах погрешности LHC ([higgs_mass_shift.py](verification/nvg_higgs_mass_shift.py)) | ✅ В пределах точности LHC |
 | 38 | Пик доли ПЧД как ТМ | Дискретная лестница масс следует из теории (шаг ступени $\times 2$ по исправленному закону Толмена; сетка $4^N$ предшествует ему); положение пика обилия ($N=-21$) и ширина ($\sigma_N = 1.3$) размещены в наблюдательно разрешённом астероидном окне ([pbh_dark_matter.py](verification/nvg_pbh_dark_matter.py)) | ⚙️ Лестница предсказана; обилие калибровано |
 | 39 | Сдвиг возраста остывания белых карликов | Предсказанный эффект $\Delta t/t \approx -1.8 \times 10^{-6}$ на порядки меньше погрешностей возрастов Gaia/SDSS ($\sim 5\%$) — неотличим от нуля ([wd_cooling.py](verification/nvg_wd_cooling.py)) | ⚪ Нуль-тест (ненаблюдаемо мал) |
@@ -247,7 +247,7 @@ $$r_c = \frac{c}{\sqrt{8\pi G \rho_c / 3}} \approx 1.13 \text{ км}$$
 | 48 | Коллапс волновой функции = термализация фазы θ | «Измерение» = связь $\theta$ с тепловым резервуаром (прибором). $\tau_{\rm collapse} = \hbar/(k_B T) = 25$ фс при 300 K. Правило Борна = вес Больцмана $P \propto e^{-V(\theta)/T}$. Даёт динамику декогеренции и масштаб времени; выбор указательного состояния остаётся открытым ([wavefunction_collapse.py](verification/nvg_wavefunction_collapse.py)) | 📐 Полустрого |
 | 49 | Масса нейтрино из θ-seesaw | $m_\nu = (\alpha_s/4\pi)^2 v_{\rm EW}^2/f_a$: ABJ хиральная аномалия связывает θ-моду с лептонным током. Один параметр $f_a = 1.07 \times 10^{11}$ ГэВ даёт $m_3 = 50.3$ мэВ (атм.) И $m_\theta = 53$ мкэВ (ADMX). Без правых нейтрино, без новой $U(1)$. $\Sigma m_\nu = 59$ мэВ < 72 мэВ (DESI) ([neutrino_seesaw.py](verification/nvg_neutrino_seesaw.py)). **Принято как основной нейтринный сектор** (безусловно проходит DESI DR2 в $\Lambda$CDM; несёт ADMX-копредсказание $m_\theta = 53$ мкэВ); отображение через шкалу ВОТ (строка 19) отправлено в отставку | ⚙️ Основной сектор (оценка масштаба) |
 | 50 | Квантовая гравитация без квантования | $T_H = \hbar c^3/(8\pi G M k_B) = \hbar/(k_B \tau_\theta)$ — температура Хокинга = термализация θ-поля на горизонте (точное совпадение). $S_{BH} = A/(4l_{Pl}^2) = N_\theta$ — энтропия = подсчёт θ-мод. Отскок при $\rho_c/\rho_{Pl} \sim 10^{-77}$ — полностью полуклассически ([quantum_gravity.py](verification/nvg_quantum_gravity.py)) | ❓ Гипотеза (эвристическое отождествление; Limitations препринта) |
-| 51 | Постоянная тонкой структуры из вакуумной поляризации | Одноконтурная оценка $1/\alpha(M_Z) = 126.6$ против измеренных $127.95$ ($\sim 1\%$ расхождения). Замечание: скрипт использует $W_0 = 432.2$ МэВ — аудит установил, что это температура отскока $T_b$, а не вакуумное значение ($859$ МэВ); требуется пересчёт ([fine_structure.py](verification/nvg_fine_structure.py)) | ⚙️ Одноконтурная оценка (нужен пересчёт $W_0$) |
+| 51 | Постоянная тонкой структуры: интерпретация физического обреза | Пересчитано с $W_0 = 859$ МэВ: $1/\alpha(M_Z) = 126.6$ — стандартный однопетлевой QED-бег (от $W_0$ не зависит; двухпетлевые адронные поправки закрывают разрыв до $127.95$). Содержание NVG интерпретационное: УФ-обрез — физический масштаб конденсата, а $\alpha_{\rm bare} = 1/132.8$ выводится ИЗ измеренной $1/137$, а не наоборот ([fine_structure.py](verification/nvg_fine_structure.py)) | ⚙️ Переинтерпретация (независимого предсказания нет) |
 | 52 | Антивещество как $\theta \to -\theta$ | C-сопряжение = обращение фазы Голдстоуна. $\eta_B$ из топологического выбора $Q = +1$ при отскоке. Аннигиляция = пересоединение вихрей с $\tau_{ann} = \hbar/(k_B T) = \tau_{collapse}$. Антивселенные = циклы с $Q = -1$ ([antimatter_topology.py](verification/nvg_antimatter_topology.py)) | ❓ Гипотеза (интерпретационное отображение) |
 | 53 | 🔥 RHIC Bell Test — смерть запутанности | $S_{\rm CHSH}(T > T_c = 157\text{ МэВ}) \to 0$: запутанность исчезает при плавлении конденсата. Протокол: $\pi^0 \to \gamma\gamma$ в Au+Au при BES-II ($\sqrt{s_{NN}} = 7.7{-}27$ ГэВ). $\sqrt{s}_{\rm crit} = 7$ ГэВ. Стандартная КМ: $S = 2\sqrt{2}$ при любом $T$. **Единственное предсказание, отличающее NVG от всех остальных теорий** ([rhic_bell_test.py](verification/nvg_rhic_bell_test.py)) | ⏳ Ожидает RHIC BES-II |
 | 54 | Гомохиральность из топологии КХД | Биологическая гомохиральность (L-аминокислоты, D-сахара) фиксируется топологическим зарядом $Q = +1$ при космологическом отскоке, обеспечивая когерентность голдстоуновской фазы на масштабе клетки $\xi_\theta \approx 7.6$ мкм при $300$ К ([nvg_dna_chirality.py](verification/nvg_dna_chirality.py)) | ❓ Спекулятивная гипотеза (только оценки масштабов) |